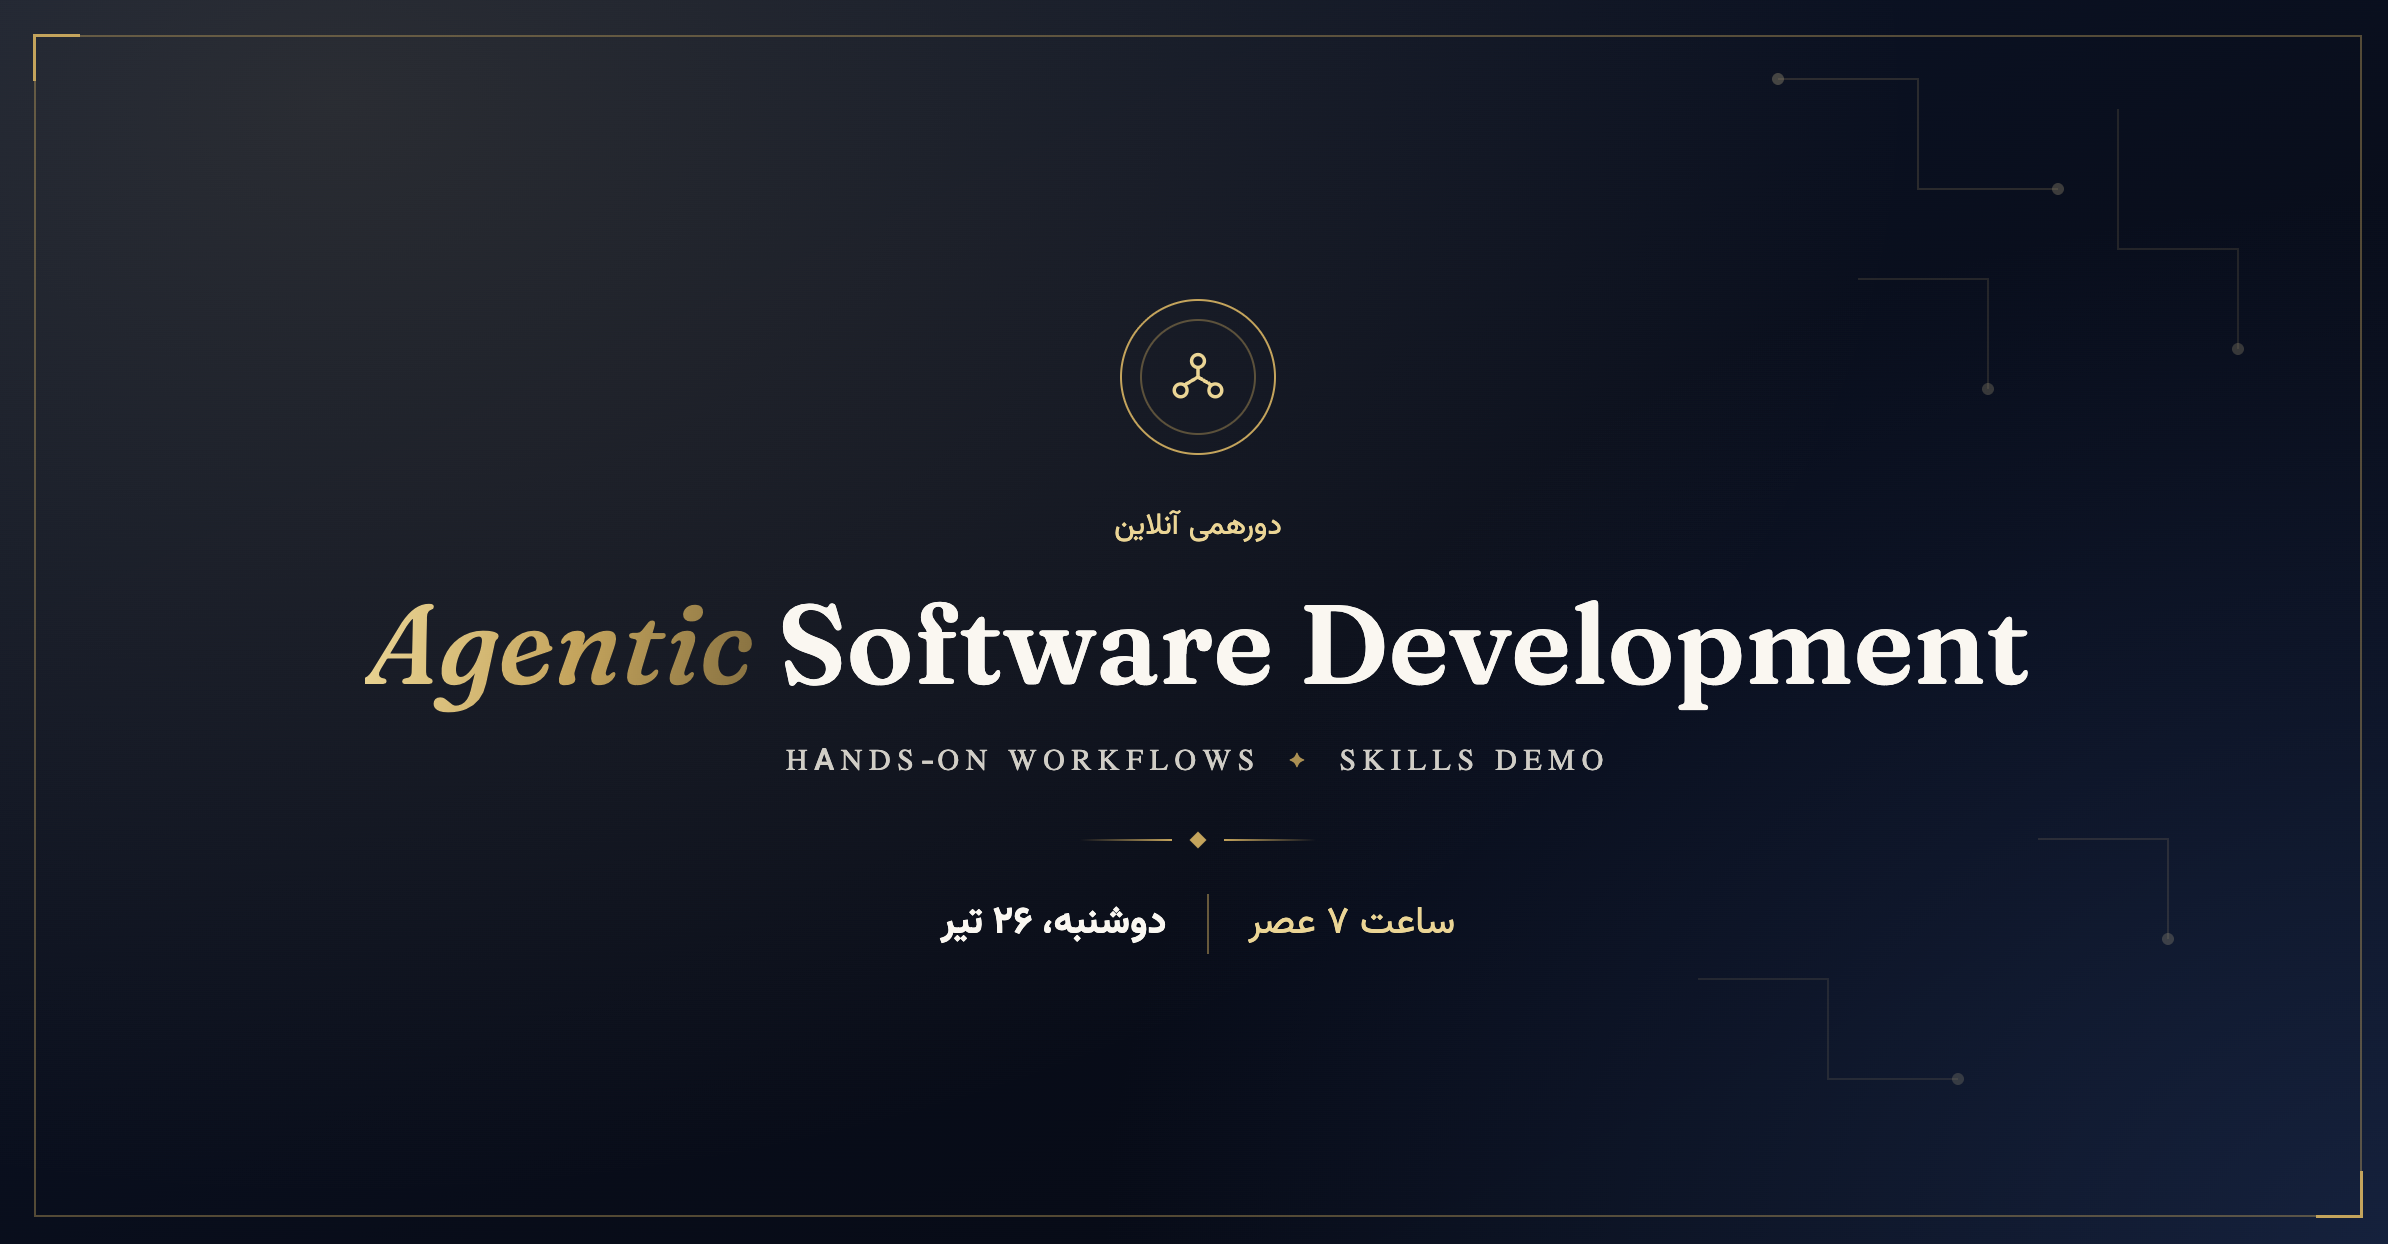
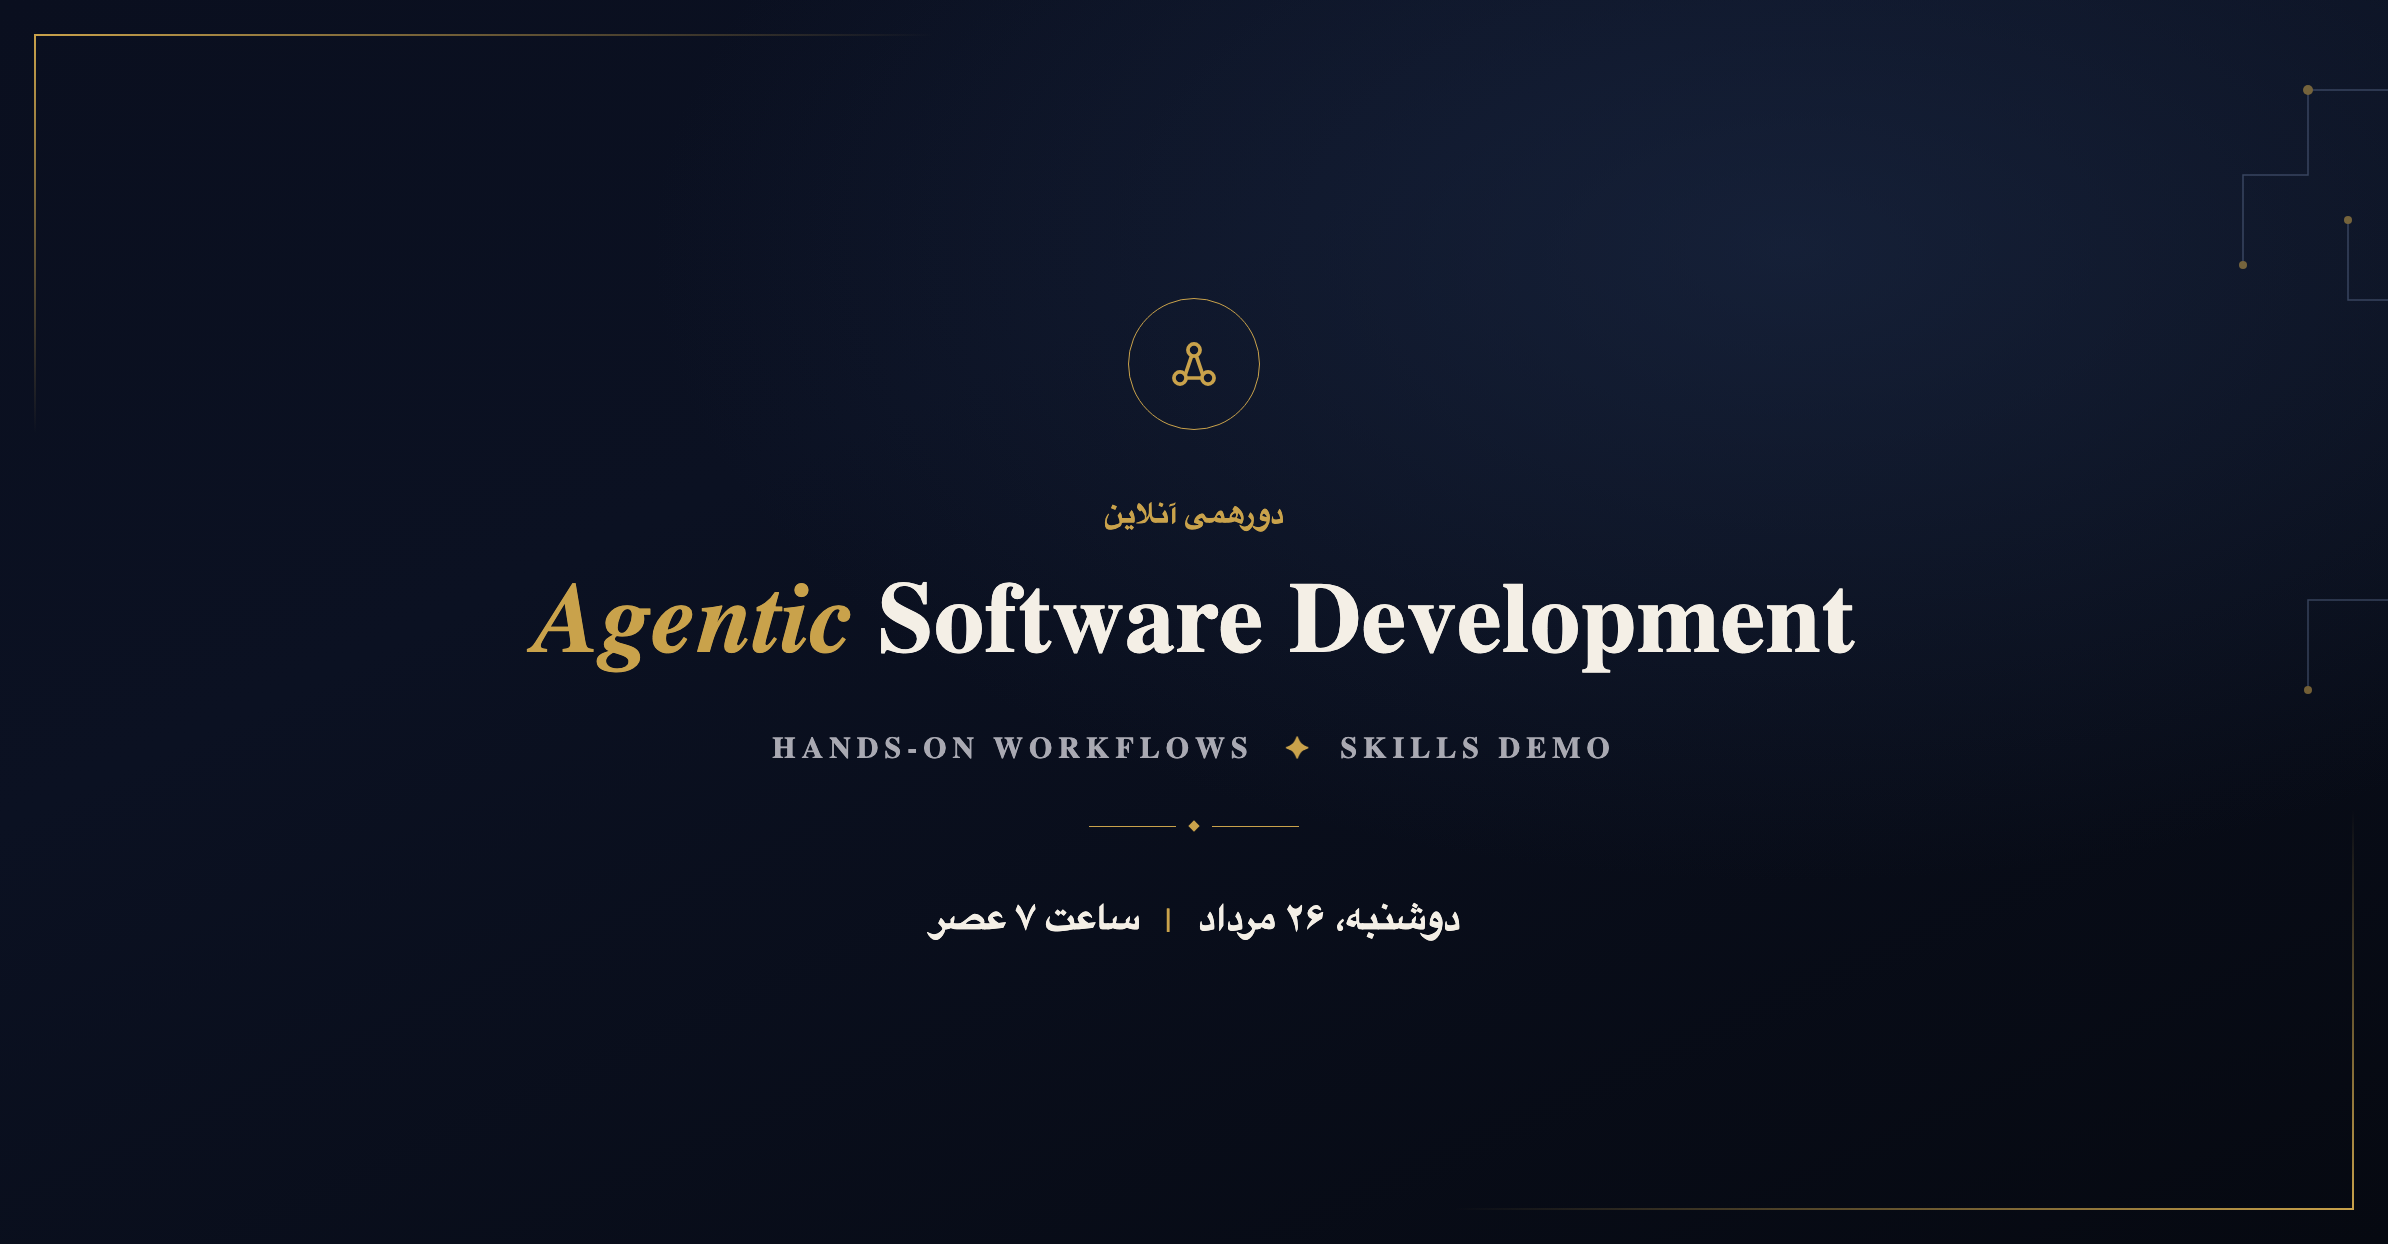
support utm

diff --git a/lib/tracking.ts b/lib/tracking.ts
@@ -1,0 +1,121 @@
+export interface TrackingData {
+  utm_source: string
+  utm_medium: string
+  utm_campaign: string
+  utm_term: string
+  utm_content: string
+  referer: string
+}
+
+const STORAGE_KEY = "marketing_attribution"
+
+function getCookie(name: string): string {
+  if (typeof document === "undefined") return ""
+  const match = document.cookie.match(new RegExp("(^| )" + name + "=([^;]+)"))
+  return match ? decodeURIComponent(match[2]) : ""
+}
+
+function setCookie(name: string, value: string, days = 30) {
+  if (typeof document === "undefined") return
+  const expires = new Date(Date.now() + days * 864e5).toUTCString()
+  document.cookie = `${name}=${encodeURIComponent(value)}; expires=${expires}; path=/; SameSite=Lax`
+}
+
+/**
+ * Initializes and captures UTM parameters and referrer immediately on page load.
+ */
+export function initTracking(): TrackingData {
+  if (typeof window === "undefined") {
+    return {
+      utm_source: "",
+      utm_medium: "",
+      utm_campaign: "",
+      utm_term: "",
+      utm_content: "",
+      referer: "",
+    }
+  }
+
+  try {
+    const urlParams = new URLSearchParams(window.location.search)
+
+    // Check multiple parameter variations (case-insensitive)
+    const param = (key: string): string => {
+      return (
+        urlParams.get(key) ||
+        urlParams.get(key.toLowerCase()) ||
+        urlParams.get(key.toUpperCase()) ||
+        ""
+      )
+    }
+
+    const currentUtmSource = param("utm_source") || param("source") || param("ref")
+    const currentUtmMedium = param("utm_medium") || param("medium")
+    const currentUtmCampaign = param("utm_campaign") || param("campaign")
+    const currentUtmTerm = param("utm_term") || param("term")
+    const currentUtmContent = param("utm_content") || param("content")
+    const currentReferer = typeof document !== "undefined" ? document.referrer : ""
+
+    // Read existing stored attribution
+    let stored: Partial<TrackingData> = {}
+    try {
+      const rawSession = sessionStorage.getItem(STORAGE_KEY)
+      const rawLocal = localStorage.getItem(STORAGE_KEY)
+      const rawCookie = getCookie(STORAGE_KEY)
+      const raw = rawSession || rawLocal || rawCookie
+      if (raw) {
+        stored = JSON.parse(raw)
+      }
+    } catch {
+      // ignore
+    }
+
+    // Determine final values (URL param overrides stored, otherwise keep stored)
+    const utm_source = currentUtmSource || stored.utm_source || ""
+    const utm_medium = currentUtmMedium || stored.utm_medium || ""
+    const utm_campaign = currentUtmCampaign || stored.utm_campaign || ""
+    const utm_term = currentUtmTerm || stored.utm_term || ""
+    const utm_content = currentUtmContent || stored.utm_content || ""
+    const referer = (currentReferer && !currentReferer.includes(window.location.hostname))
+      ? currentReferer
+      : (stored.referer || currentReferer || "")
+
+    const data: TrackingData = {
+      utm_source,
+      utm_medium,
+      utm_campaign,
+      utm_term,
+      utm_content,
+      referer,
+    }
+
+    // Persist
+    const serialized = JSON.stringify(data)
+    try {
+      sessionStorage.setItem(STORAGE_KEY, serialized)
+      localStorage.setItem(STORAGE_KEY, serialized)
+      setCookie(STORAGE_KEY, serialized, 30)
+    } catch {
+      // ignore
+    }
+
+    return data
+  } catch (err) {
+    console.error("Error initializing tracking data:", err)
+    return {
+      utm_source: "",
+      utm_medium: "",
+      utm_campaign: "",
+      utm_term: "",
+      utm_content: "",
+      referer: typeof document !== "undefined" ? document.referrer : "",
+    }
+  }
+}
+
+/**
+ * Returns the current or stored tracking data.
+ */
+export function getTrackingData(): TrackingData {
+  return initTracking()
+}

diff --git a/app/courses/[slug]/client.tsx b/app/courses/[slug]/client.tsx
@@ -37,6 +37,7 @@ import {
 } from "lucide-react"
 import { useState, useEffect } from "react"
 import { notFound } from "next/navigation"
+import { getTrackingData } from "@/lib/tracking"
 
 // Define the Course type
 export type Course = {
@@ -330,6 +331,8 @@ function RegistrationForm({ onClose, course, effectiveDiscount }: { onClose: () 
       })
     }
     
+    const tracking = getTrackingData()
+
     const data = {
       firstName: formData.get("firstName"),
       lastName: formData.get("lastName"),
@@ -342,6 +345,7 @@ function RegistrationForm({ onClose, course, effectiveDiscount }: { onClose: () 
       courseName: course?.title || "",
       courseSlug: typeof window !== "undefined" ? window.location.pathname.split("/").pop() : "",
       formType: "registration",
+      ...tracking,
     }
 
     try {
@@ -429,7 +433,9 @@ function RegistrationForm({ onClose, course, effectiveDiscount }: { onClose: () 
 
             <div>
               <label className="block text-sm font-medium mb-2">
-                ایمیل <span className="text-muted-foreground text-xs font-normal">(اطلاعات و لایسنس دوره برای شما از طریق همین ایمیل ارسال خواهد شد)</span>
+                ایمیل {!isWebinar && (
+                  <span className="text-muted-foreground text-xs font-normal">(اطلاعات و لایسنس دوره برای شما از طریق همین ایمیل ارسال خواهد شد)</span>
+                )}
               </label>
               <input
                 type="email"
@@ -552,6 +558,7 @@ function ReserveForm({ onClose, course }: { onClose: () => void; course?: Course
     setIsSubmitting(true)
     
     const formData = new FormData(e.currentTarget)
+    const tracking = getTrackingData()
     const data = {
       firstName: formData.get("firstName"),
       lastName: formData.get("lastName"),
@@ -561,6 +568,7 @@ function ReserveForm({ onClose, course }: { onClose: () => void; course?: Course
       courseName: course?.title || "",
       courseSlug: typeof window !== "undefined" ? window.location.pathname.split("/").pop() : "",
       formType: "reserve",
+      ...tracking,
     }
 
     try {
@@ -679,6 +687,7 @@ function ConsultationForm({ onClose, course }: { onClose: () => void; course?: C
     setIsSubmitting(true)
     
     const formData = new FormData(e.currentTarget)
+    const tracking = getTrackingData()
     const data = {
       firstName: formData.get("firstName"),
       lastName: formData.get("lastName"),
@@ -687,6 +696,7 @@ function ConsultationForm({ onClose, course }: { onClose: () => void; course?: C
       courseName: course?.title || "",
       courseSlug: typeof window !== "undefined" ? window.location.pathname.split("/").pop() : "",
       formType: "consultation",
+      ...tracking,
     }
 
     try {
@@ -816,6 +826,7 @@ function CorporateTrainingForm({ onClose, course }: { onClose: () => void; cours
     setIsSubmitting(true)
     
     const formData = new FormData(e.currentTarget)
+    const tracking = getTrackingData()
     const data = {
       firstName: formData.get("firstName"),
       lastName: formData.get("lastName"),
@@ -825,6 +836,7 @@ function CorporateTrainingForm({ onClose, course }: { onClose: () => void; cours
       courseName: course?.title || "",
       courseSlug: typeof window !== "undefined" ? window.location.pathname.split("/").pop() : "",
       formType: "corporate",
+      ...tracking,
     }
 
     try {

diff --git a/app/layout.tsx b/app/layout.tsx
@@ -1,8 +1,10 @@
 import type React from "react"
+import { Suspense } from "react"
 import type { Metadata } from "next"
 import { Vazirmatn, JetBrains_Mono } from "next/font/google"
 import { Analytics } from "@vercel/analytics/next"
 import Script from "next/script"
+import { UtmTracker } from "@/components/utm-tracker"
 import "./globals.css"
 
 const vazirmatn = Vazirmatn({
@@ -119,6 +121,9 @@ export default function RootLayout({
         </Script>
       </head>
       <body className={`${vazirmatn.className} font-sans antialiased`}>
+        <Suspense fallback={null}>
+          <UtmTracker />
+        </Suspense>
         {children}
         <Analytics />
       </body>

diff --git a/components/utm-tracker.tsx b/components/utm-tracker.tsx
@@ -1,0 +1,16 @@
+"use client"
+
+import { useEffect } from "react"
+import { useSearchParams, usePathname } from "next/navigation"
+import { initTracking } from "@/lib/tracking"
+
+export function UtmTracker() {
+  const searchParams = useSearchParams()
+  const pathname = usePathname()
+
+  useEffect(() => {
+    initTracking()
+  }, [searchParams, pathname])
+
+  return null
+}
